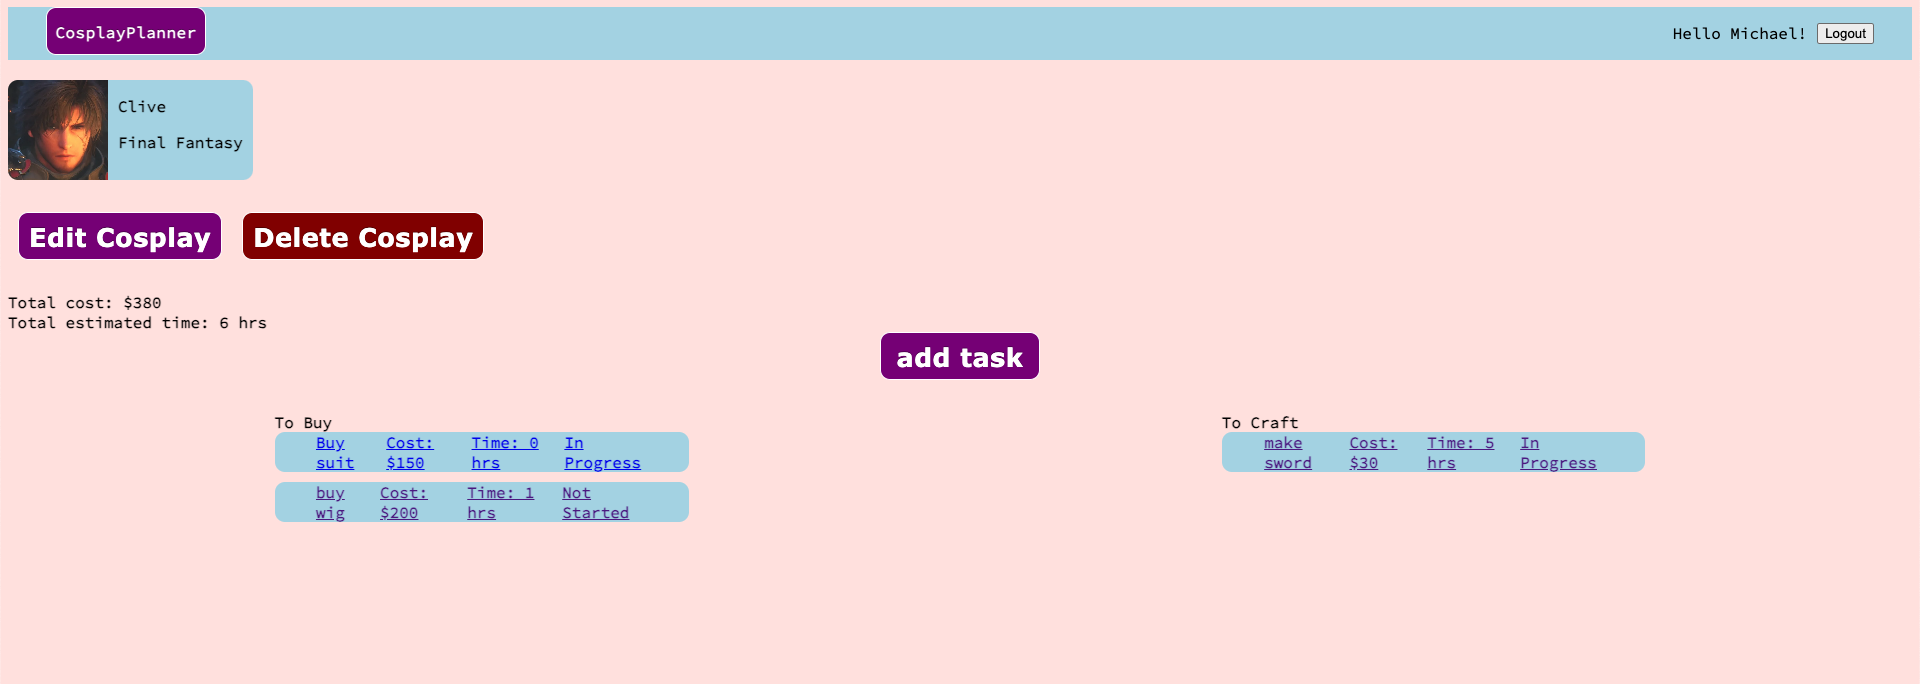
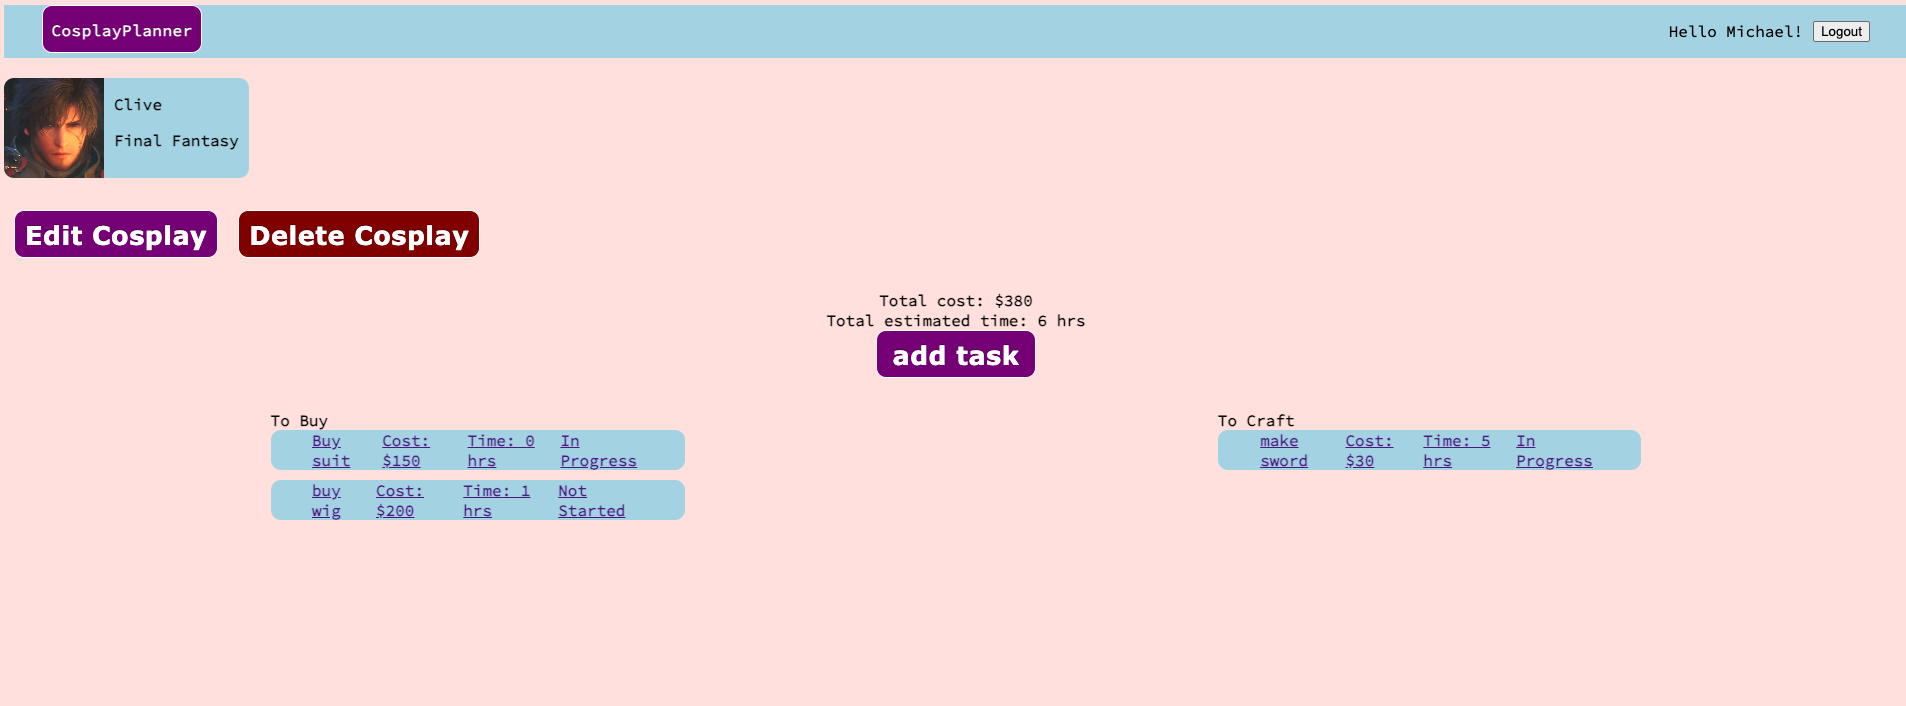
moved text in cosplay details page

diff --git a/public/style.css b/public/style.css
@@ -159,6 +159,10 @@ label {
     font-family: 'Source Code Pro', monospace;
 }
 
+.total-text {
+    text-align: center;
+}
+
 .task-grid {
     display: flex;
     justify-content: space-around;
